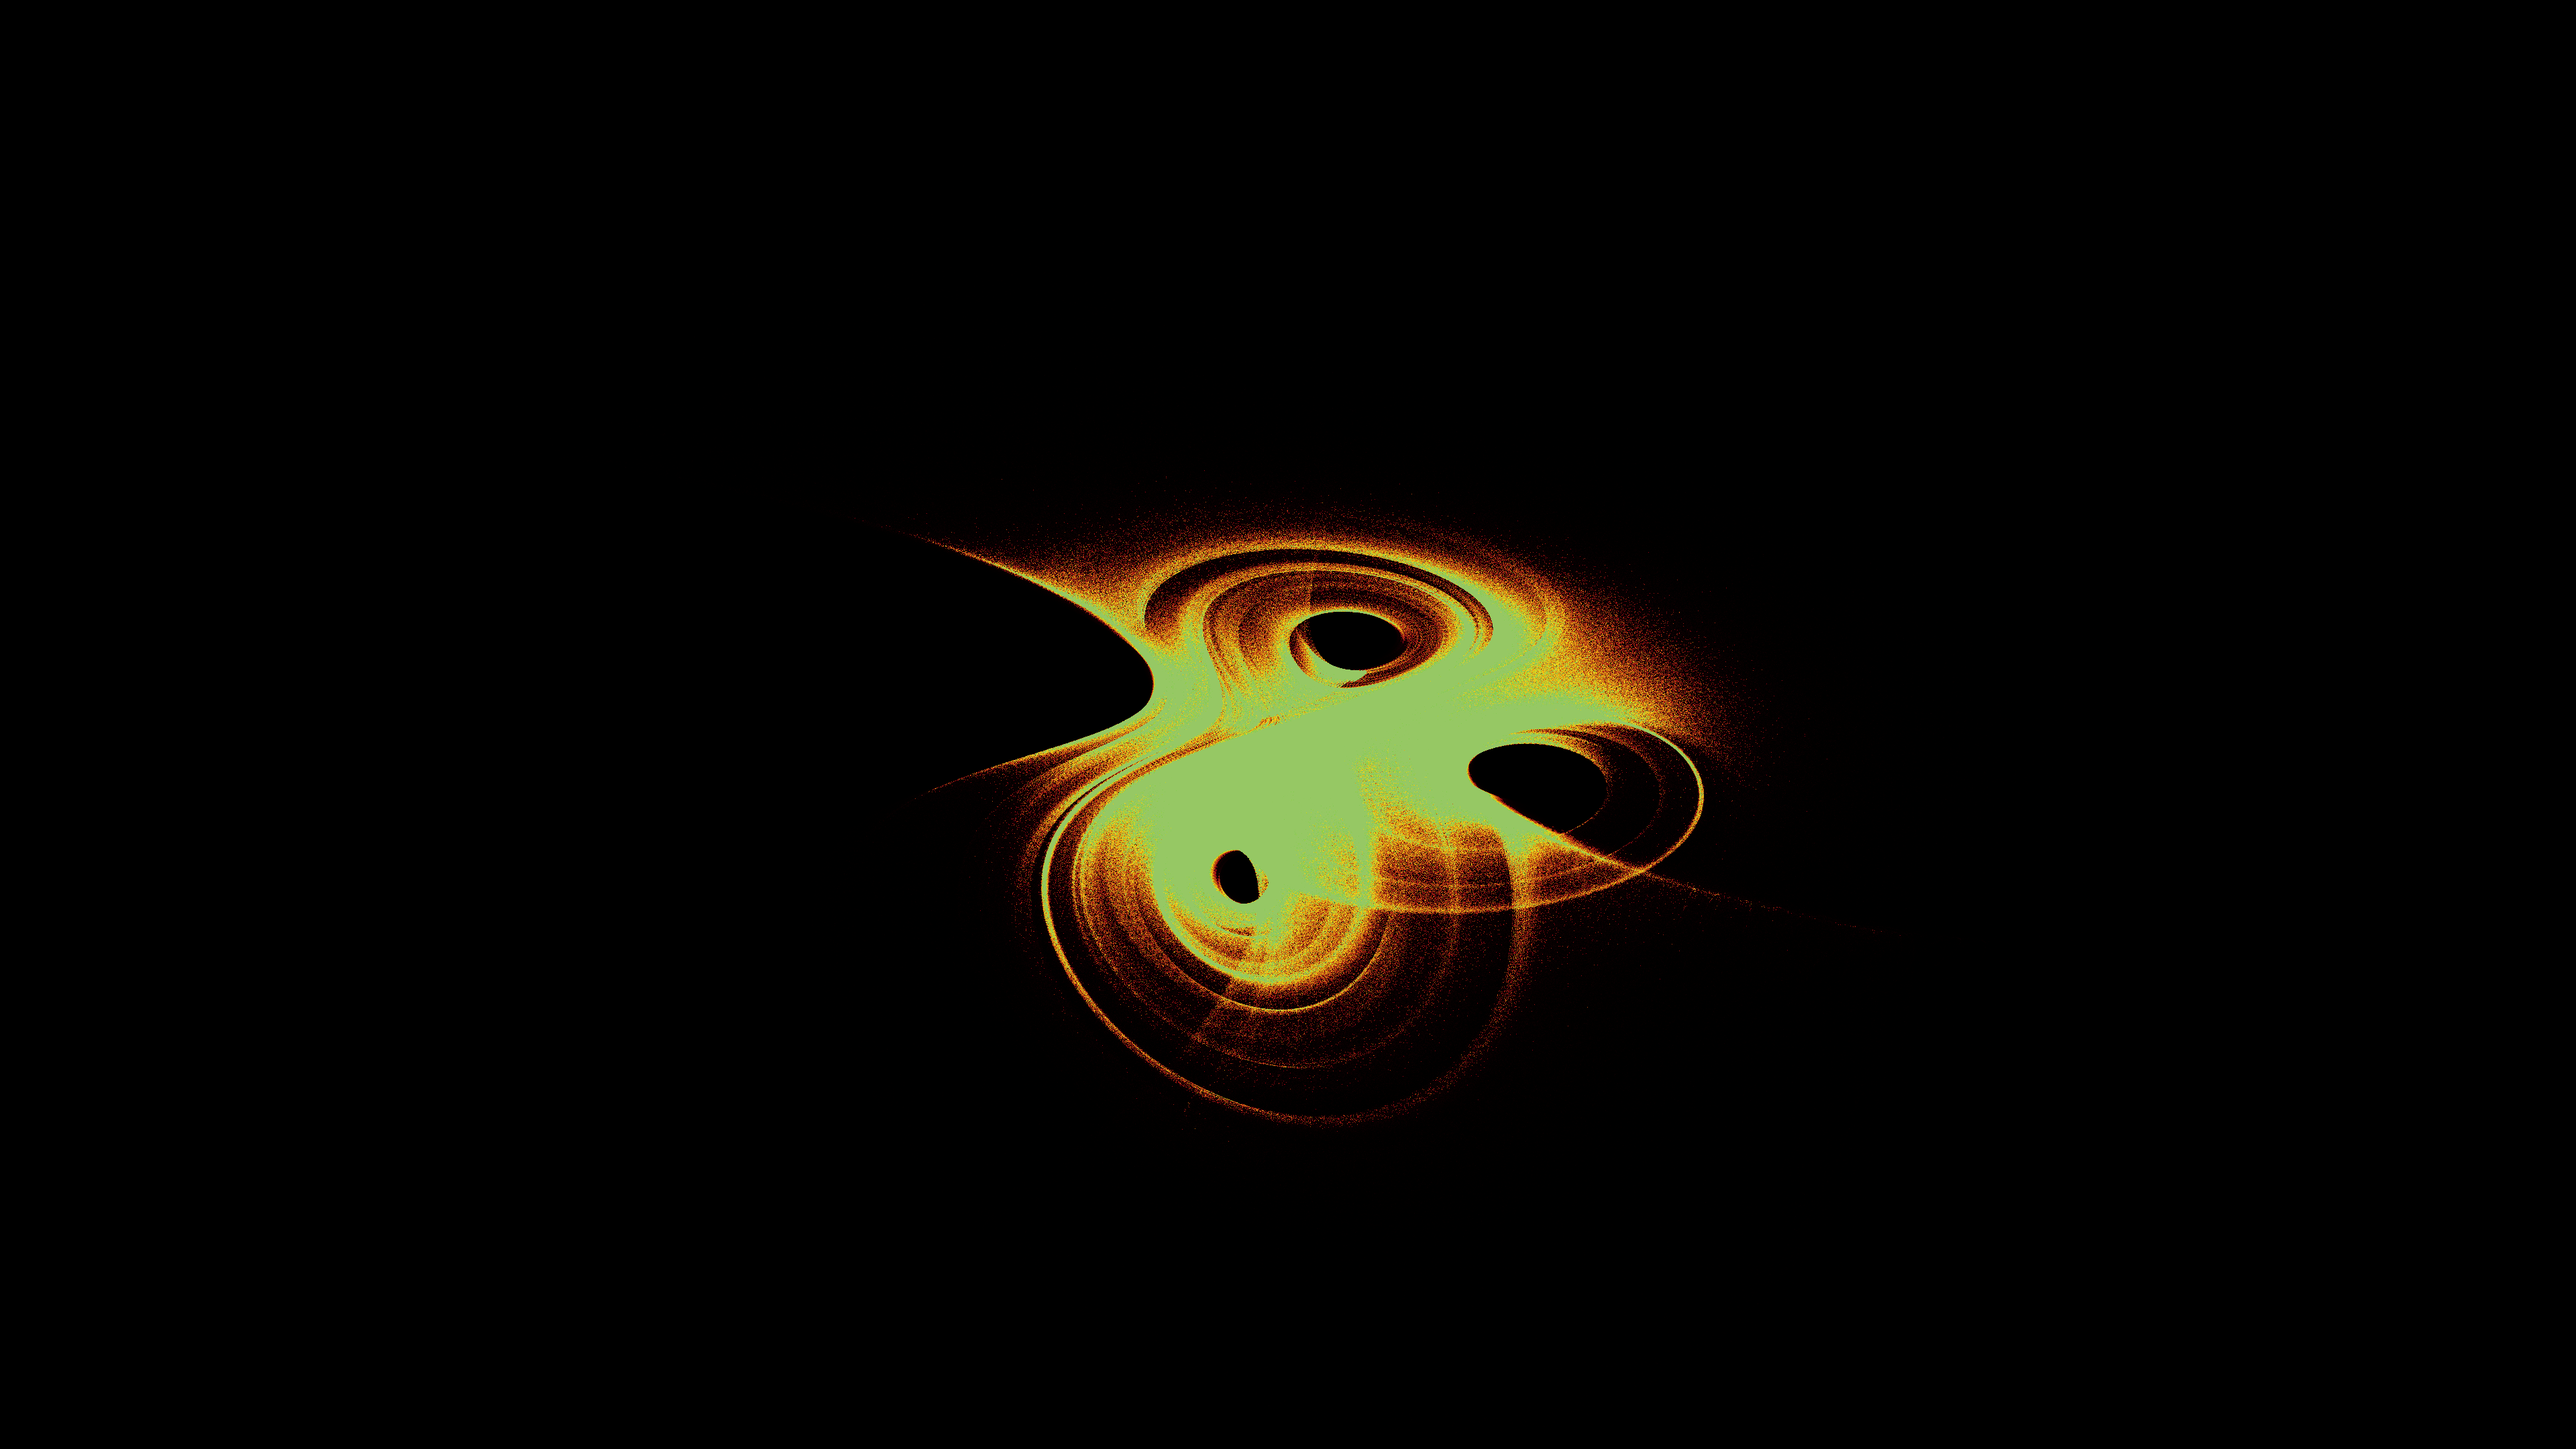
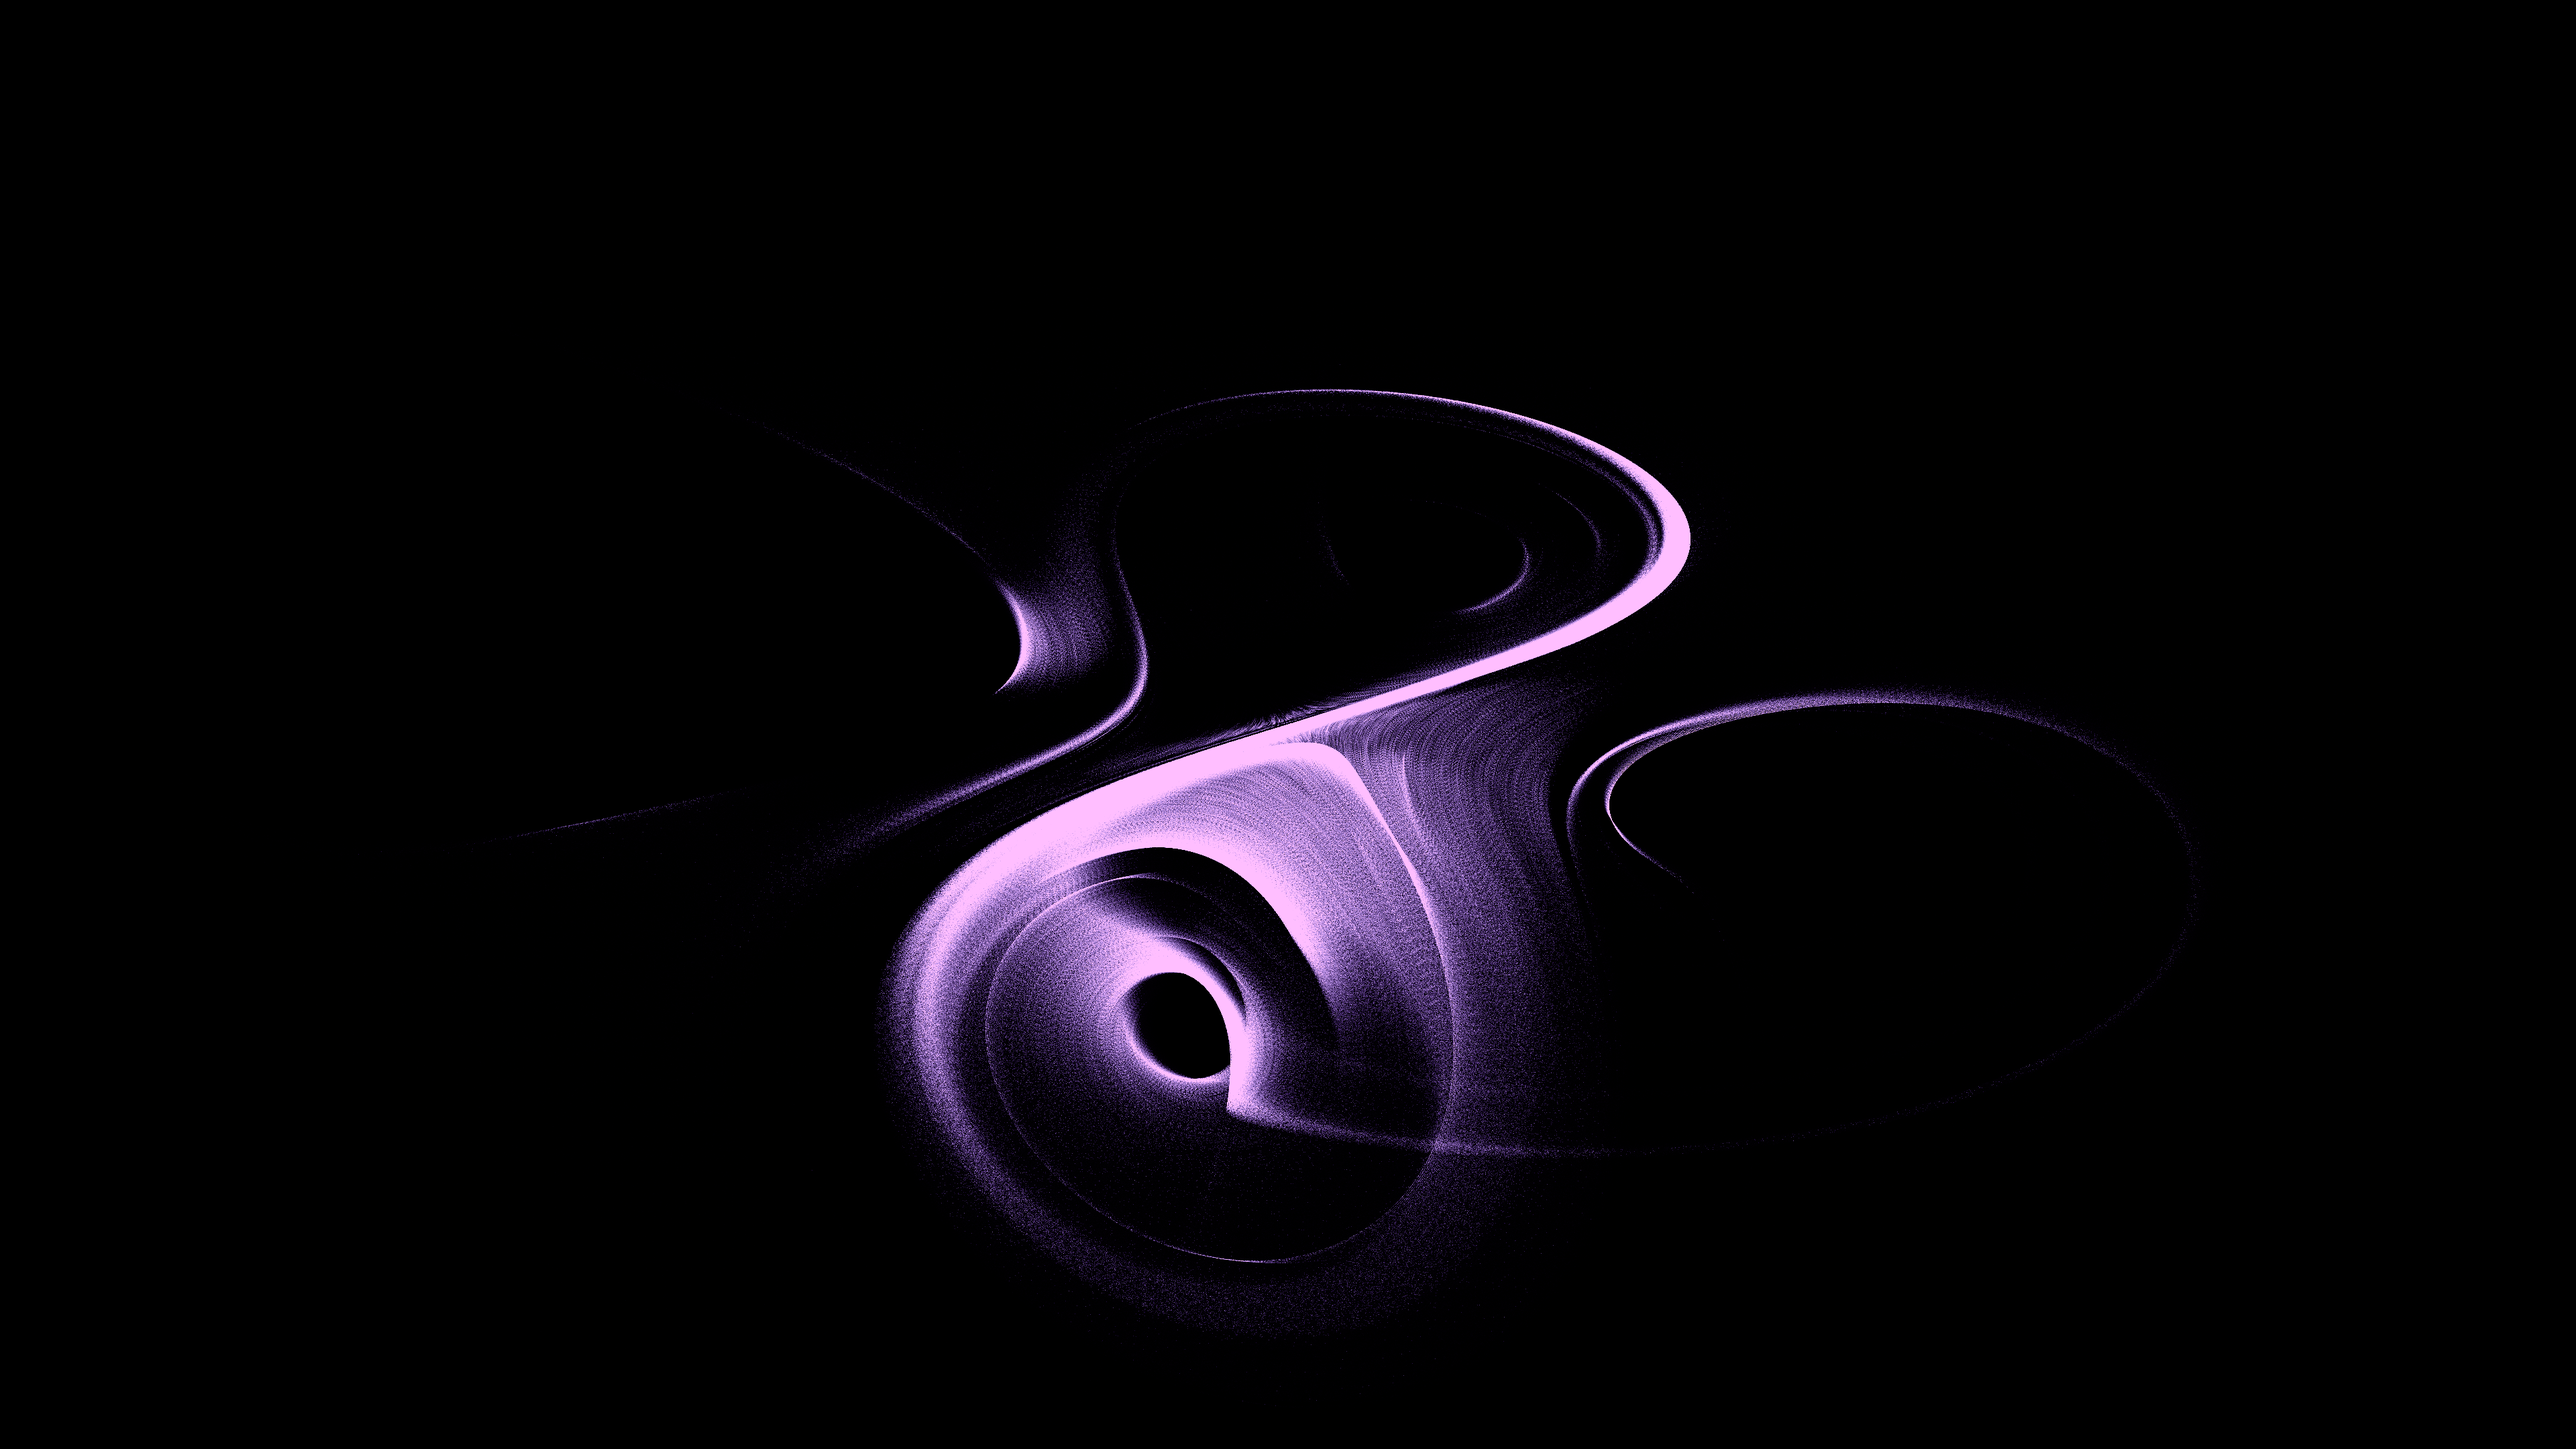
feat: add kinetic_dadras_attractor_2d

diff --git a/sketch/kinetic_dadras_attractor_2d/main.py b/sketch/kinetic_dadras_attractor_2d/main.py
@@ -28,13 +28,18 @@ N = 1000000
 # Initial points spread around the origin
 x = np.random.uniform(-1, 1, N).astype(np.float32)
 y = np.random.uniform(-1, 1, N).astype(np.float32)
-z = np.random.uniform(0, 1, N).astype(np.float32)
+z = np.random.uniform(-1, 1, N).astype(np.float32)
 
 density_buffer = np.zeros((SIZE[1], SIZE[0]), dtype=np.float32)
 
-def step_dadras(a, b, c, d, h, dt=0.005):
+def step_dadras(c, dt=0.005):
     global x, y, z
-    # Euler integration step for the Dadras attractor
+    # Euler integration step for the Dadras Attractor
+    a = 3.0
+    b = 2.7
+    d = 2.0
+    h = 9.0
+    
     dx = y - a * x + b * y * z
     dy = c * y - x * z + z
     dz = d * x * y - h * z
@@ -47,7 +52,7 @@ def step_dadras(a, b, c, d, h, dt=0.005):
     mask = (np.abs(x_new) > 20) | (np.abs(y_new) > 20) | (np.abs(z_new) > 20) | np.isnan(x_new)
     x_new[mask] = np.random.uniform(-1, 1, np.sum(mask)).astype(np.float32)
     y_new[mask] = np.random.uniform(-1, 1, np.sum(mask)).astype(np.float32)
-    z_new[mask] = np.random.uniform(0, 1, np.sum(mask)).astype(np.float32)
+    z_new[mask] = np.random.uniform(-1, 1, np.sum(mask)).astype(np.float32)
     
     x[:] = x_new
     y[:] = y_new
@@ -64,15 +69,11 @@ def draw():
     t = py5.frame_count * 2 * np.pi / TOTAL_FRAMES
     
     # Dadras parameter with continuous modulation
-    a = 3.0
-    b = 2.7
     c = 1.7 + 0.2 * np.sin(t)
-    d = 2.0
-    h = 9.0
     
     # Run integration steps
     for _ in range(5):
-        step_dadras(a, b, c, d, h, dt=0.005)
+        step_dadras(c, dt=0.003)
         
     # Rotate 3D attractor gently over time
     theta = t * 0.4
@@ -89,9 +90,9 @@ def draw():
     z_rot2 = y_rot1 * np.sin(phi) + z_rot1 * np.cos(phi)
     
     # Map to screen
-    # Dadras typical size: x,y in [-15, 15], z in [0, 15]
-    screen_x = (x_rot2 + 20.0) / 40.0 * SIZE[0]
-    screen_y = (y_rot2 + 20.0) / 40.0 * SIZE[1]
+    # Dadras typical size: x,y,z in [-10, 10]
+    screen_x = (x_rot2 + 10.0) / 20.0 * SIZE[0]
+    screen_y = (y_rot2 + 10.0) / 20.0 * SIZE[1]
     
     # Fast 2D histogram
     H, _, _ = np.histogram2d(screen_y, screen_x, bins=(SIZE[1], SIZE[0]), range=[[0, SIZE[1]], [0, SIZE[0]]])
@@ -103,25 +104,25 @@ def draw():
     py5.load_np_pixels()
     
     # Map density to colors
-    # Palette: Emerald Green, Gold, and Crimson
+    # Palette: Orchid, Lavender, and Indigo
     density_norm = np.clip(density_buffer / 12.0, 0, 1)
     
-    # Crimson base
-    r_col = 150 * (density_norm ** 1.5)
-    g_col = 0 * (density_norm ** 1.5)
-    b_col = 20 * (density_norm ** 1.5)
+    # Indigo base
+    r_col = 30 * (density_norm ** 1.5)
+    g_col = 10 * (density_norm ** 1.5)
+    b_col = 60 * (density_norm ** 1.5)
     
-    # Gold midtones
-    gold_mask = (density_norm > 0.3) & (density_norm < 0.7)
-    r_col[gold_mask] = np.maximum(r_col[gold_mask], 150 + 105 * ((density_norm[gold_mask] - 0.3) / 0.4))
-    g_col[gold_mask] = np.maximum(g_col[gold_mask], 0 + 215 * ((density_norm[gold_mask] - 0.3) / 0.4))
-    b_col[gold_mask] = np.maximum(b_col[gold_mask], 20 + 0 * ((density_norm[gold_mask] - 0.3) / 0.4))
+    # Lavender midtones
+    lavender_mask = (density_norm > 0.3) & (density_norm < 0.7)
+    r_col[lavender_mask] = np.maximum(r_col[lavender_mask], 30 + 150 * ((density_norm[lavender_mask] - 0.3) / 0.4))
+    g_col[lavender_mask] = np.maximum(g_col[lavender_mask], 10 + 130 * ((density_norm[lavender_mask] - 0.3) / 0.4))
+    b_col[lavender_mask] = np.maximum(b_col[lavender_mask], 60 + 170 * ((density_norm[lavender_mask] - 0.3) / 0.4))
     
-    # Emerald Green highlights
-    em_mask = density_norm > 0.7
-    r_col[em_mask] = np.maximum(r_col[em_mask], 255 - 205 * ((density_norm[em_mask] - 0.7) / 0.3))
-    g_col[em_mask] = np.maximum(g_col[em_mask], 215 - 15 * ((density_norm[em_mask] - 0.7) / 0.3))
-    b_col[em_mask] = np.maximum(b_col[em_mask], 20 + 80 * ((density_norm[em_mask] - 0.7) / 0.3))
+    # Orchid highlights
+    orchid_mask = density_norm > 0.7
+    r_col[orchid_mask] = np.maximum(r_col[orchid_mask], 180 + 75 * ((density_norm[orchid_mask] - 0.7) / 0.3))
+    g_col[orchid_mask] = np.maximum(g_col[orchid_mask], 140 + 50 * ((density_norm[orchid_mask] - 0.7) / 0.3))
+    b_col[orchid_mask] = np.maximum(b_col[orchid_mask], 230 + 25 * ((density_norm[orchid_mask] - 0.7) / 0.3))
     
     py5.np_pixels[:, :, 0] = 255
     py5.np_pixels[:, :, 1] = r_col.astype(np.uint8)

diff --git a/sketch/WORKS.md b/sketch/WORKS.md
@@ -1,3 +1,10 @@
+## kinetic_dadras_attractor_2d
+- **Date**: 2026-07-25
+- **Type**: Animation (900 frames, 60fps)
+- **Concept**: A continuous 3D chaotic flow with intricate and dense trajectories.
+- **Techniques**: The Dadras Attractor. We numerically integrate the continuous differential equations using the Euler method for 1M particles. The dense 3D structure is rotated and orthographically projected onto the 2D plane, gently modulating the parameter `c` over time.
+- **Palette**: Orchid, Lavender, and Indigo.
+
 ## kinetic_thomas_cyclically_symmetric_attractor_2d
 - **Date**: 2026-07-25
 - **Type**: Animation (900 frames, 60fps)

diff --git a/.agents/FEEDBACK.md b/.agents/FEEDBACK.md
@@ -4,6 +4,12 @@
 Agents MUST NOT write anything in the `Comment` field. When registering a new work, Agents must leave the `Rating` and `Comment` fields empty or with their default labels as placeholders for the user.
 The Artist reads this file before starting a new sketch to understand preferences.
 
+## kinetic_dadras_attractor_2d
+
+- **Rating**: 
+- **Comment**: 
+
+
 ## kinetic_thomas_cyclically_symmetric_attractor_2d
 
 - **Rating**: 
